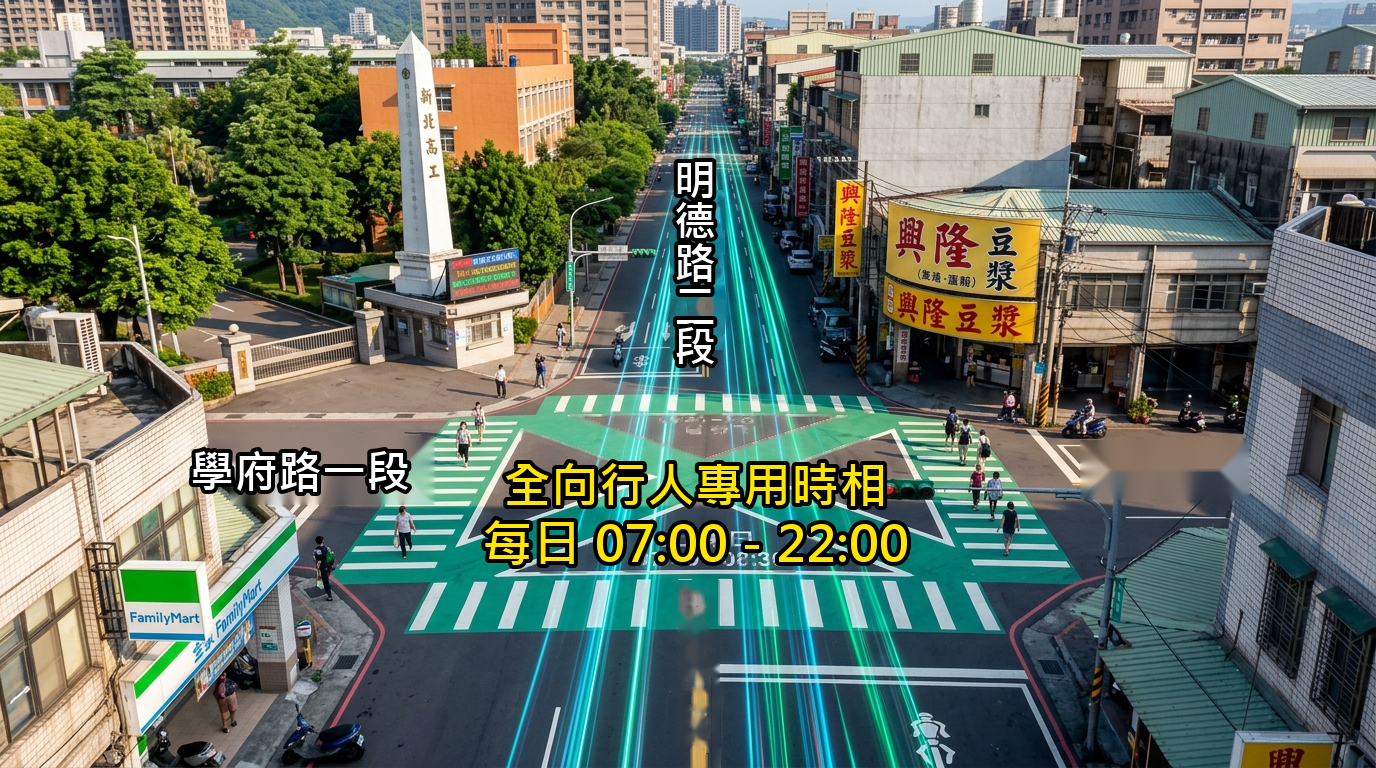
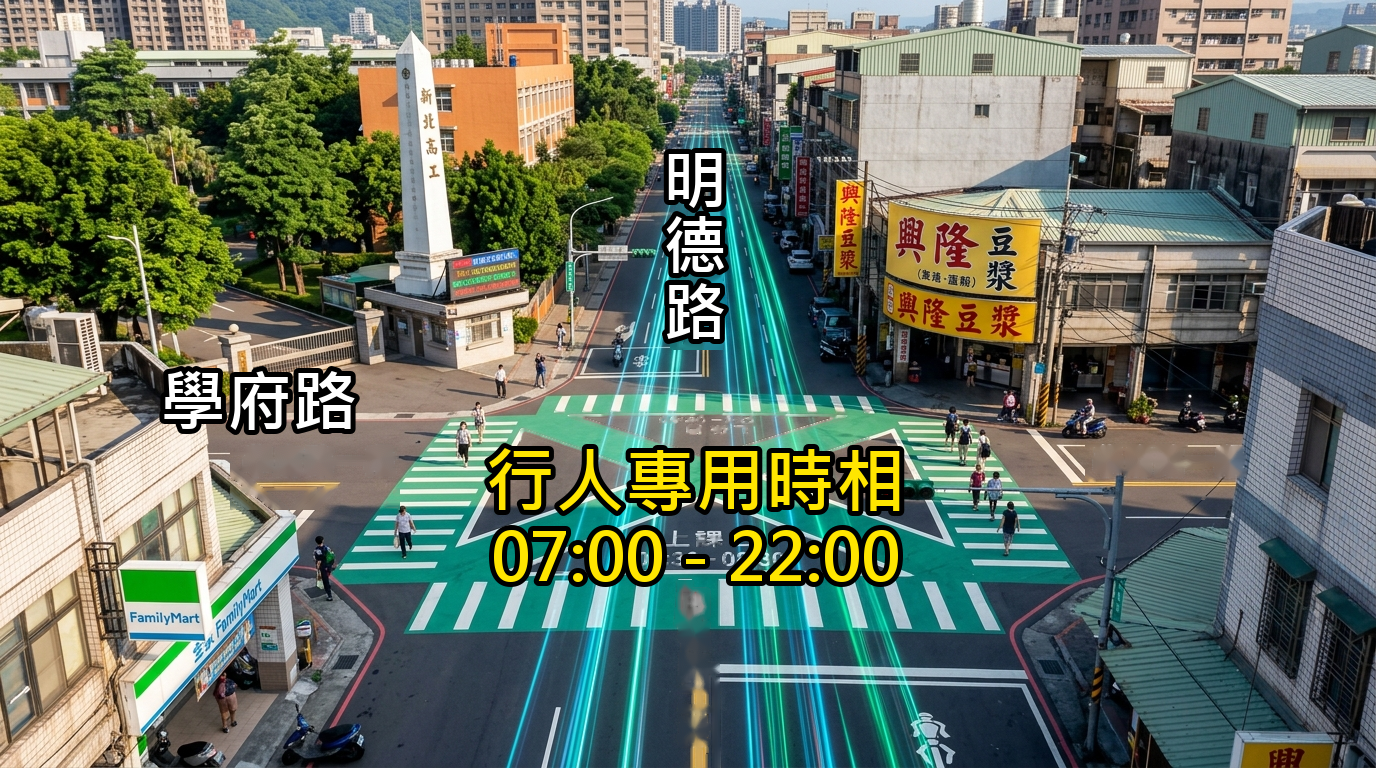
Auto backup by AI: 政見04願景圖極限巨幅化與路名錯落排版定稿至 v58.03

diff --git a/js/main.js b/js/main.js
@@ -96,7 +96,7 @@ const POLICIES_DATA = [
         categoryName: "人本交通與智慧安防",
         title: "智慧交通號誌 ＋ 解決塞車問題",
         subtitle: "海山、學府、學士路口<span class=\"hl-subtitle-green\">紅綠燈不同步</span>，爭取<span class=\"hl-subtitle-green\">動態綠波</span>與<span class=\"hl-subtitle-green\">行人專用時相</span>，告別塞車！",
-        image: "images/policy_04_traffic.png?v=58.02",
+        image: "images/policy_04_traffic.png?v=58.03",
         budgetSource: "交通局交控專案 ＋ 行人友善改善計畫",
         budgetSub: "<span class=\"hl-keyword\">完全不會動用</span>明德里 88 萬基層款",
         budgetDesc: "",
